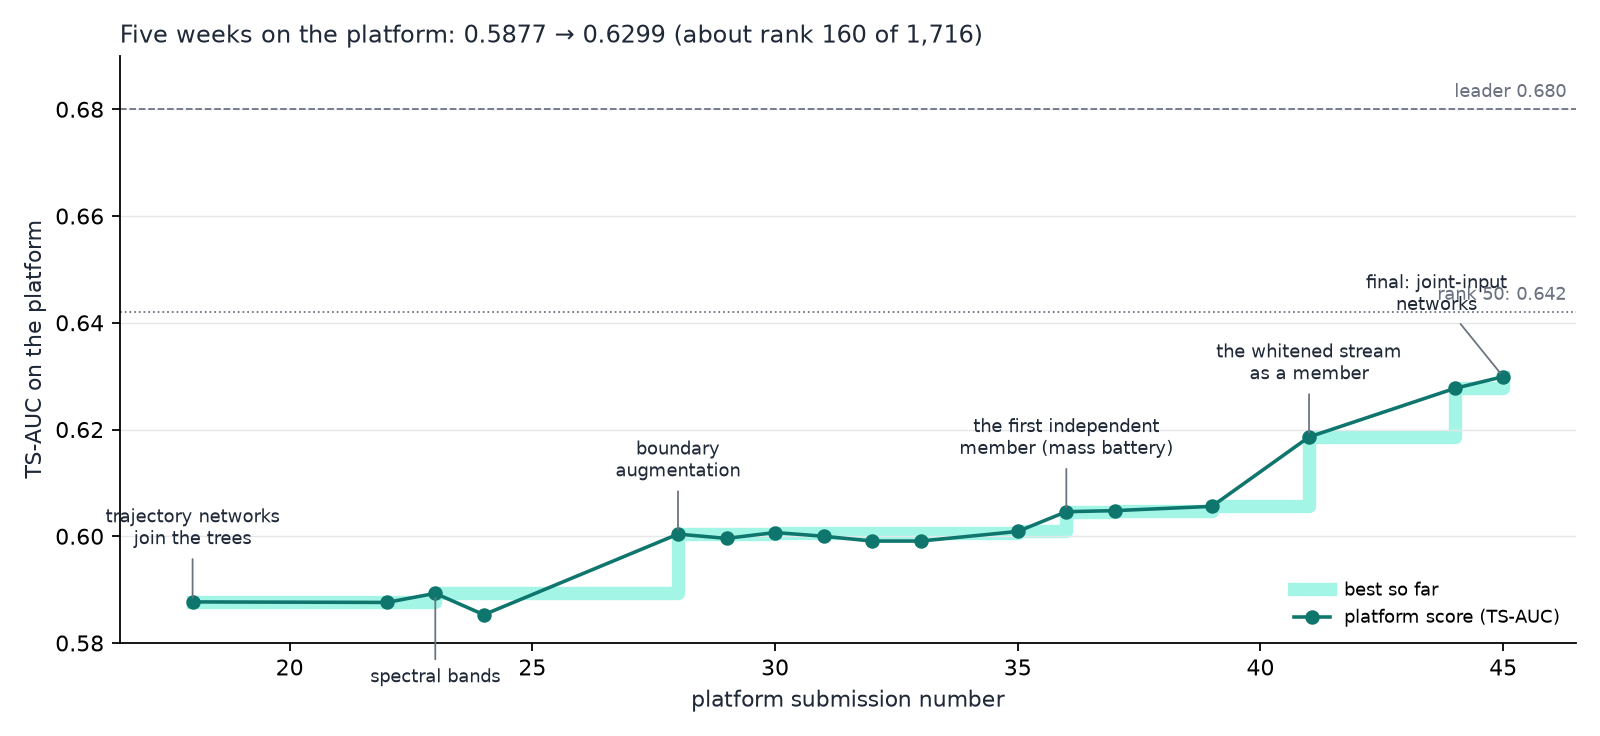
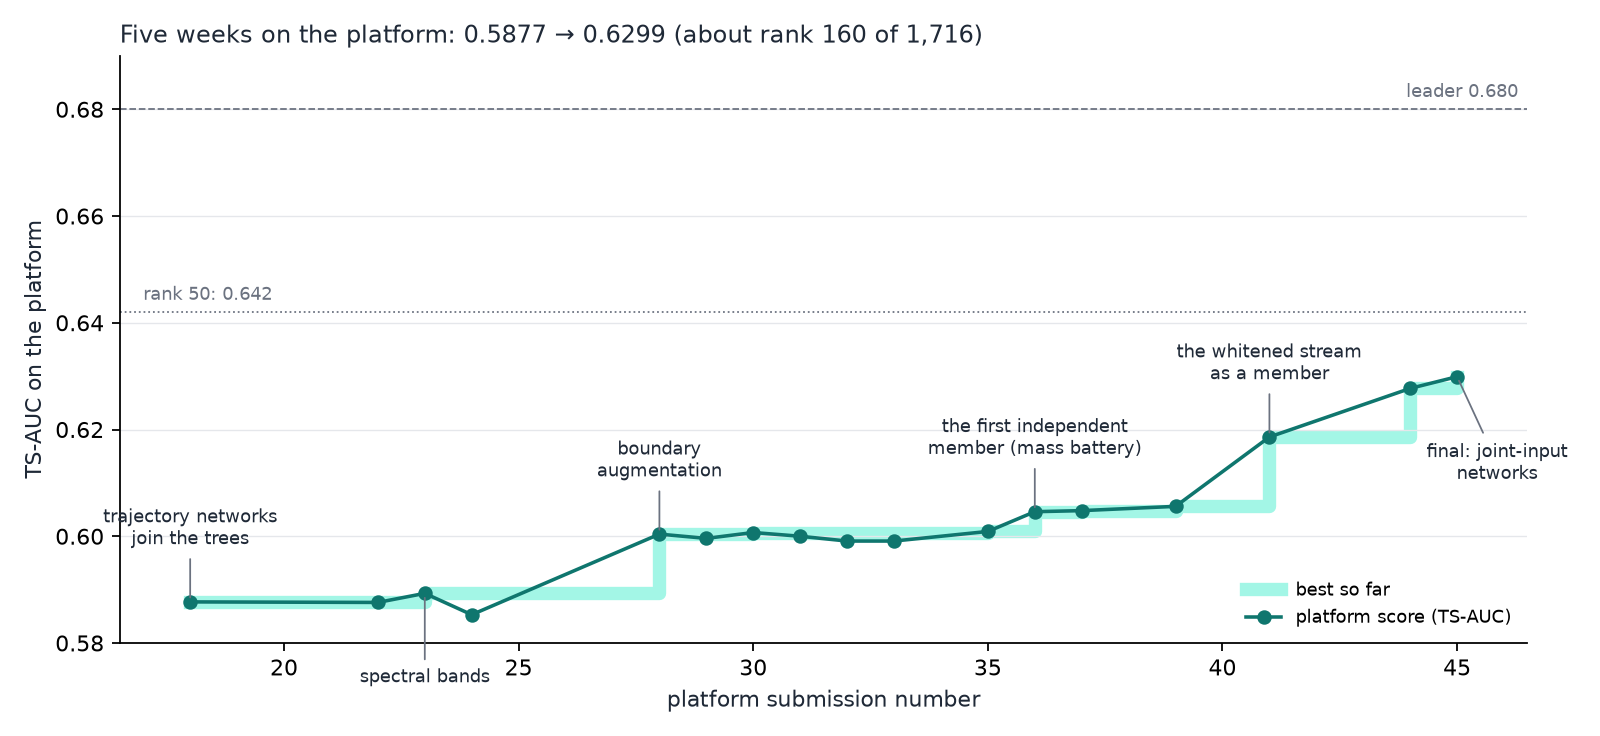
score timeline: annotations and labels no longer overlap

diff --git a/scripts/make_figures.py b/scripts/make_figures.py
@@ -24,11 +24,11 @@ ax.step(x, best, where="post", color=SOFT, lw=6, alpha=.9, zorder=1, label="best
 ax.plot(x, y, "o-", color=ACCENT, lw=1.6, ms=5.5, zorder=3, label="platform score (TS-AUC)")
 for sub, text in levers.items():
     yy = dict(cloud)[sub]
-    dx, dy = {23: (0, -40), 45: (-30, 30), 44: (0, 26)}.get(sub, (0, 26))
+    dx, dy = {23: (0, -40), 45: (18, -46), 44: (-6, 26)}.get(sub, (0, 26))
     ax.annotate(text, (sub, yy), xytext=(dx, dy), textcoords="offset points", ha="center", fontsize=8, color=INK,
                 arrowprops=dict(arrowstyle="-", color=MUTED, lw=.8))
 ax.axhline(.680, color=MUTED, lw=.8, ls="--"); ax.text(46.3, .6815, "leader 0.680", fontsize=8, color=MUTED, va="bottom", ha="right")
-ax.axhline(.642, color=MUTED, lw=.8, ls=":"); ax.text(46.3, .6435, "rank 50: 0.642", fontsize=8, color=MUTED, va="bottom", ha="right")
+ax.axhline(.642, color=MUTED, lw=.8, ls=":"); ax.text(17.0, .6435, "rank 50: 0.642", fontsize=8, color=MUTED, va="bottom", ha="left")
 ax.set_xlabel("platform submission number", color=INK); ax.set_ylabel("TS-AUC on the platform", color=INK)
 ax.set_ylim(.58, .69); ax.set_xlim(16.5, 46.5)
 ax.set_title("Five weeks on the platform: 0.5877 → 0.6299 (about rank 160 of 1,716)", color=INK, fontsize=11, loc="left")
